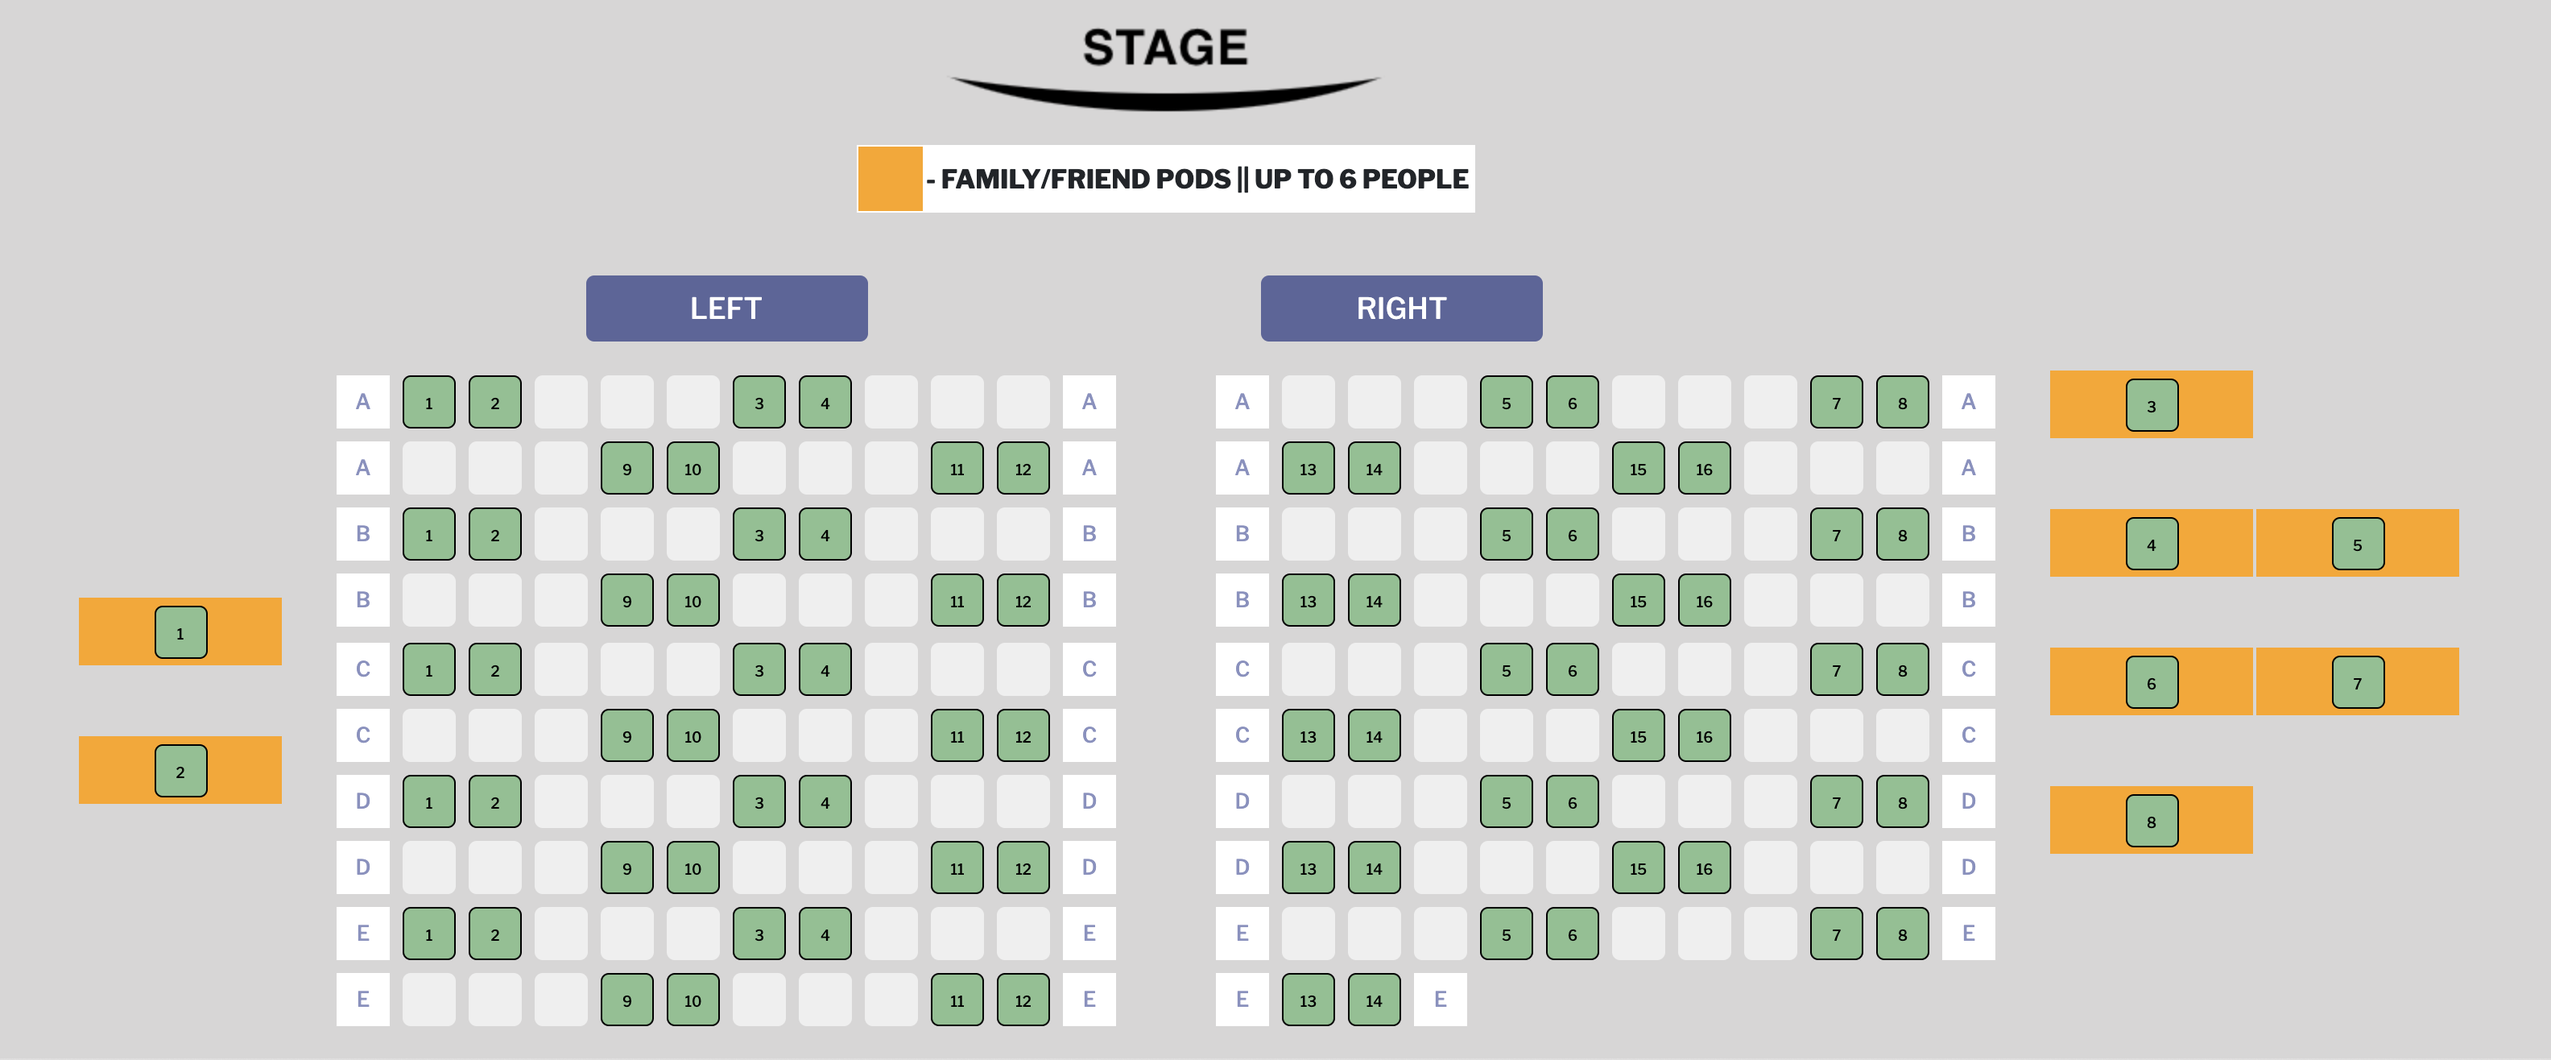
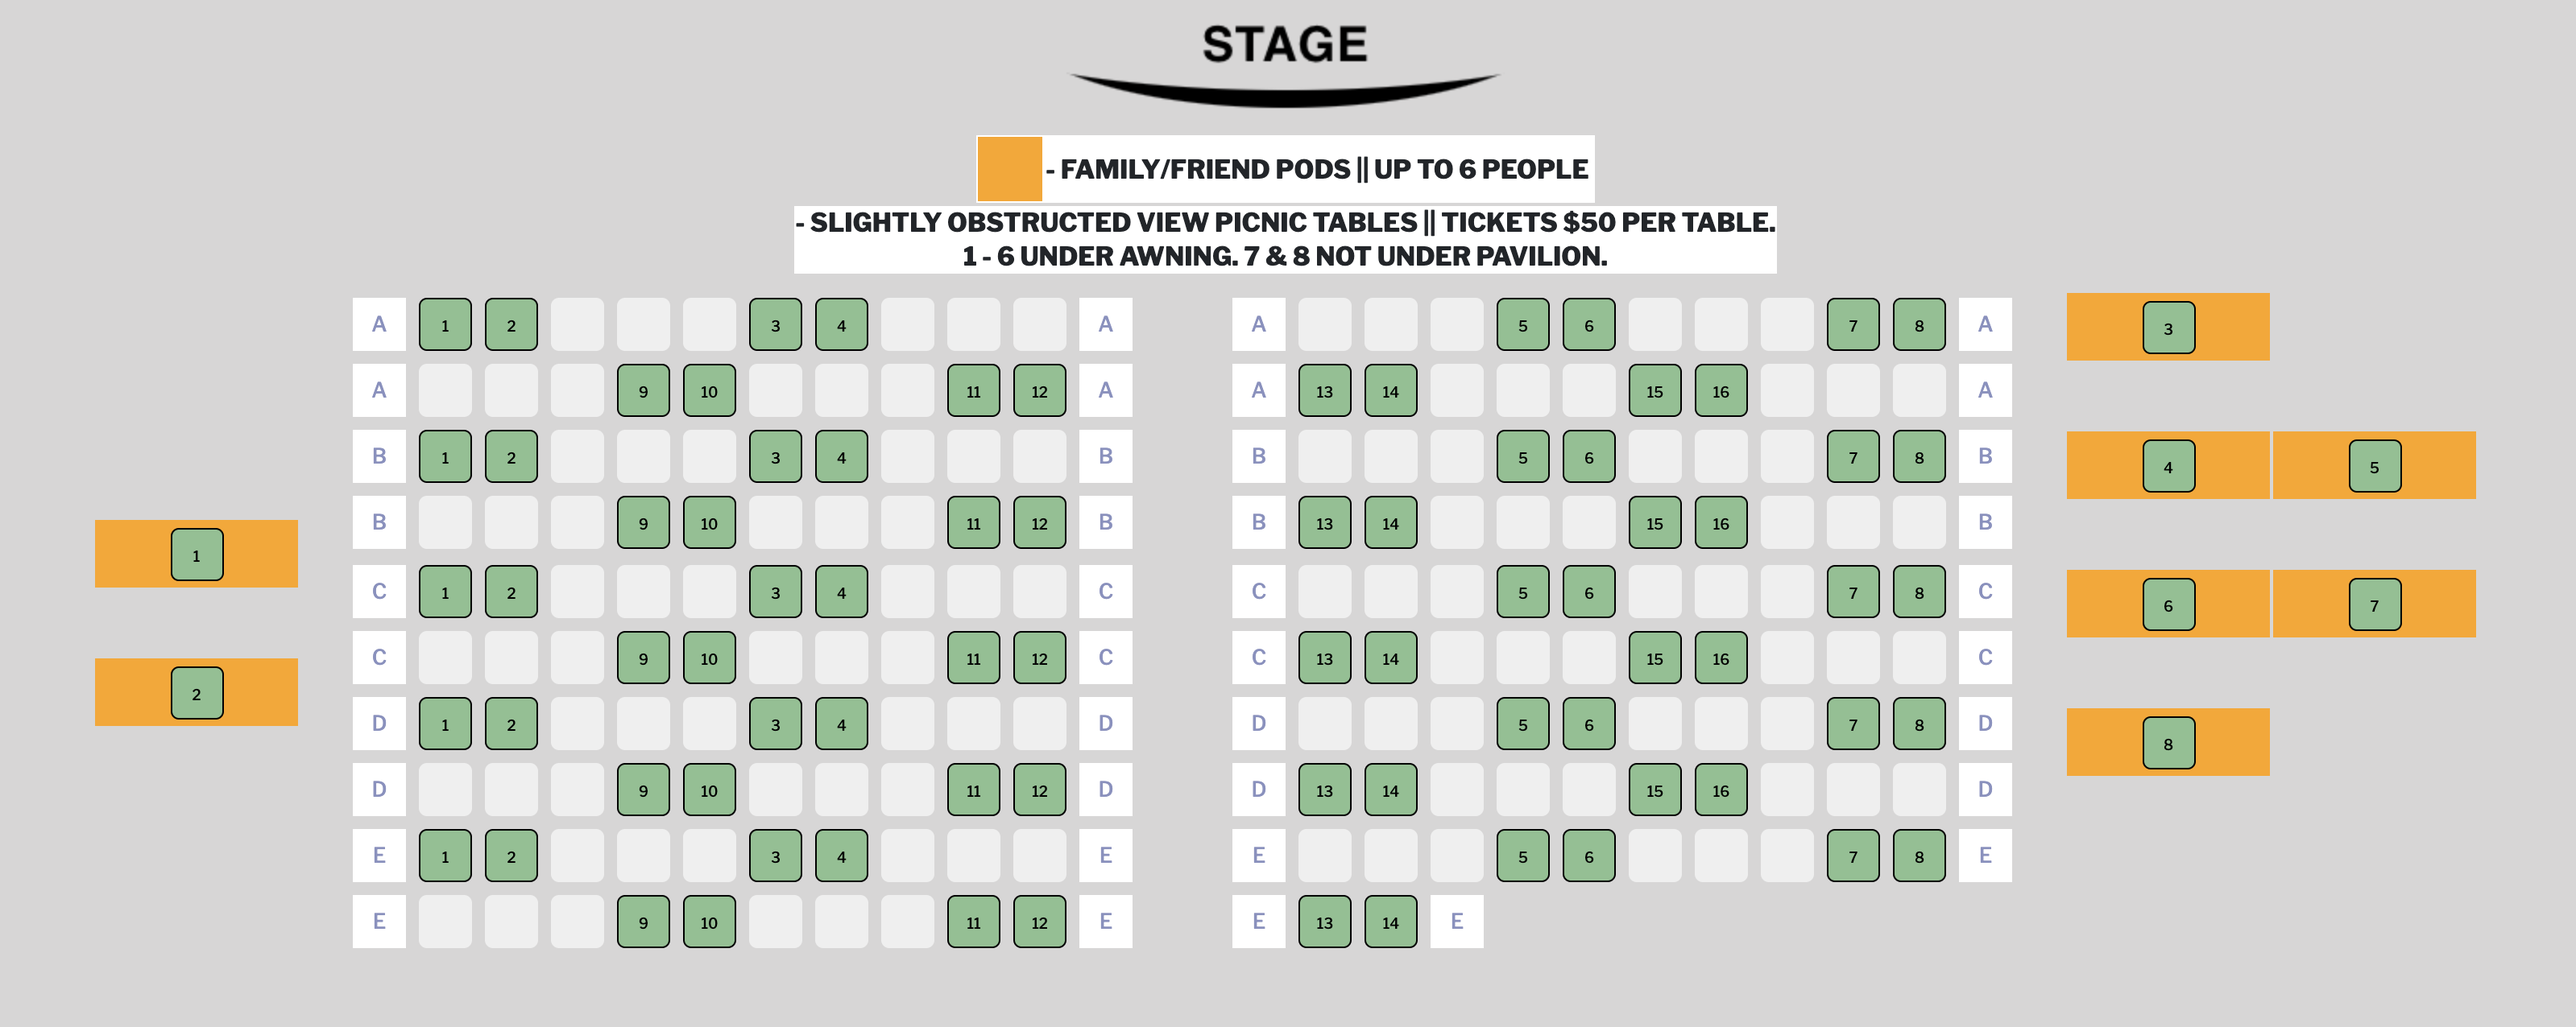
updated venue

diff --git a/Completed/27956.html b/Completed/27956.html
@@ -11,134 +11,88 @@
 </style>
 
 <table width="100%" border="0" cellspacing="0" cellpadding="0" align="center">
+  <!-- Stage Image -->
+  <tr> 
+    <td align="center">
+      <div align="center">
+        <img src="https://s3.amazonaws.com/prdv2-dt-client/seating_images/stage.png" alt="STAGE" width="300" height="80">
+      </div>
+    </td>
+  </tr>
+
+  <tr>
+    <td>
+      <div align="center">
+        <img src="https://s3.amazonaws.com/prdv2-dt-client/seating_images/pixel.png" width="35" height="5">
+      </div>
+    </td>
+  </tr>
+
+  <!-- Key/Legend -->
+  <tr> 
+    <td valign="top">
+      <div align="center">
+        <table align='center' style="background-color: white;">
+          <tr>
+            <td>
+              <div style="background-color: orange; width:40px; height:40px"></div>
+            </td>
+            <td>
+              <div align="left" style="width: 340px;">
+                <strong> - FAMILY/FRIEND PODS || UP TO 6 PEOPLE</strong>
+              </div>
+            </td>
+          </tr>
+        </table>
+      </div>
+    </td>
+  </tr>
+
+  <tr>
+    <td>
+      <div align="center">
+        <img src="https://s3.amazonaws.com/prdv2-dt-client/seating_images/pixel.png" width="35" height="2">
+      </div>
+    </td>
+  </tr>
+
+  <!-- Note -->
+  <tr> 
+    <td valign="top">
+      <div align="center">
+        <table align='center' style="background-color: white;">
+          <tr>
+            <td>
+              <div align="center">
+                <strong> - SLIGHTLY OBSTRUCTED VIEW PICNIC TABLES || TICKETS $50 PER TABLE.</strong>
+              </div>
+            </td>
+          </tr>
+          <tr>
+            <td>
+              <div align="center">
+                <strong>1 - 6 UNDER AWNING. 7 & 8 NOT UNDER PAVILION.</strong>
+              </div>
+            </td>
+          </tr>
+        </table>
+      </div>
+    </td>
+  </tr>
+
+  <tr>
+    <td>
+      <div align="center">
+        <img src="https://s3.amazonaws.com/prdv2-dt-client/seating_images/pixel.png" width="35" height="10">
+      </div>
+    </td>
+  </tr>
+  
   <!-- ALL -->
   <tr>
     <td>
       <div align="center">
-        <table align="center">
-          <!-- Stage Image -->
-          <tr> 
-            <td>
-              <div align="center">
-                <img src="https://s3.amazonaws.com/prdv2-dt-client/seating_images/pixel.png" width="25" height="1">
-              </div>
-            </td>
-            <td>
-              <div align="center">
-                <img src="https://s3.amazonaws.com/prdv2-dt-client/seating_images/pixel.png" width="25" height="1">
-              </div>
-            </td>
-            <td colspan="3" align="center">
-              <div align="center">
-                <img src="https://s3.amazonaws.com/prdv2-dt-client/seating_images/stage.png" alt="STAGE" width="300" height="80">
-              </div>
-             </td>
-            <td>
-              <div align="center">
-                <img src="https://s3.amazonaws.com/prdv2-dt-client/seating_images/pixel.png" width="25" height="1">
-              </div>
-            </td>
-            <td>
-              <div align="center">
-                <img src="https://s3.amazonaws.com/prdv2-dt-client/seating_images/pixel.png" width="25" height="1">
-              </div>
-            </td>
-          </tr>
-
-          <tr>
-            <td>
-              <div align="center">
-                <img src="https://s3.amazonaws.com/prdv2-dt-client/seating_images/pixel.png" width="35" height="5">
-              </div>
-            </td>
-          </tr>
-
-          <!-- Key/Legend -->
-          <tr> 
-            <td>
-              <div align="center">
-                <img src="https://s3.amazonaws.com/prdv2-dt-client/seating_images/pixel.png" width="25" height="1">
-              </div>
-            </td>
-            <td>
-              <div align="center">
-                <img src="https://s3.amazonaws.com/prdv2-dt-client/seating_images/pixel.png" width="25" height="1">
-              </div>
-            </td>
-            <td colspan="3" valign="top">
-              <div align="center">
-                <table align='center' style="background-color: white;">
-                  <tr>
-                    <td>
-                      <div style="background-color: orange; width:40px; height:40px"></div>
-                    </td>
-                    <td>
-                      <div align="left" style="width: 340px;">
-                        <strong> - FAMILY/FRIEND PODS || UP TO 6 PEOPLE</strong>
-                      </div>
-                    </td>
-                  </tr>
-                </table>
-              </div>
-            </td>
-              <div align="center">
-                <img src="https://s3.amazonaws.com/prdv2-dt-client/seating_images/pixel.png" width="25" height="1">
-              </div>
-            </td>
-            <td>
-              <div align="center">
-                <img src="https://s3.amazonaws.com/prdv2-dt-client/seating_images/pixel.png" width="25" height="1">
-              </div>
-            </td>
-          </tr>
-
-          <tr>
-            <td>
-              <div align="center">
-                <img src="https://s3.amazonaws.com/prdv2-dt-client/seating_images/pixel.png" width="35" height="5">
-              </div>
-            </td>
-          </tr>
-
-          <!-- Names -->
-          <tr> 
-            <td>
-              <div align="center">
-                <img src="https://s3.amazonaws.com/prdv2-dt-client/seating_images/pixel.png" width="25" height="1">
-              </div>
-            </td>
-            <td>
-              <div align="center">
-                <img src="https://s3.amazonaws.com/prdv2-dt-client/seating_images/pixel.png" width="25" height="1">
-              </div>
-            </td>
-            <td>
-              <div align="center">
-                {{{ sectionNames.39419 }}}
-              </div>
-            </td>
-            <td>
-              <div align="center">
-                <img src="https://s3.amazonaws.com/prdv2-dt-client/seating_images/pixel.png" width="50" height="1">
-              </div>
-            </td>
-            <td>
-              <div align="left">
-                {{{ sectionNames.39420 }}}
-              </div>
-            </td>
-            <td>
-              <div align="center">
-                <img src="https://s3.amazonaws.com/prdv2-dt-client/seating_images/pixel.png" width="25" height="1">
-              </div>
-            </td>
-            <td>
-              <div align="center">
-                <img src="https://s3.amazonaws.com/prdv2-dt-client/seating_images/pixel.png" width="25" height="1">
-              </div>
-            </td>
-          </tr>
-              
+        <table align="center">     
           <!-- Seats -->
           <tr>
             <!-- Left Tables -->
